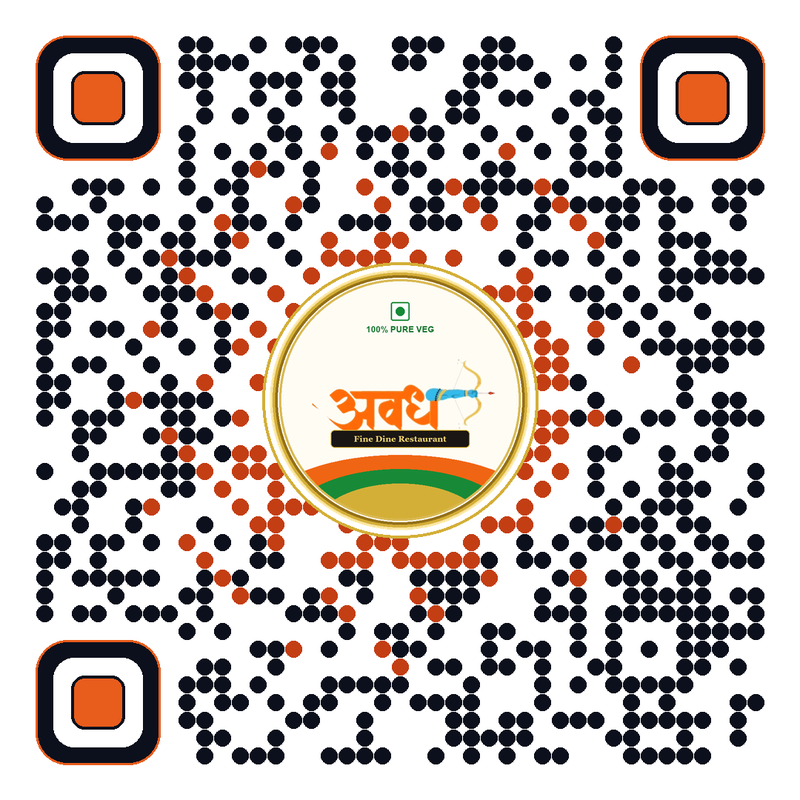
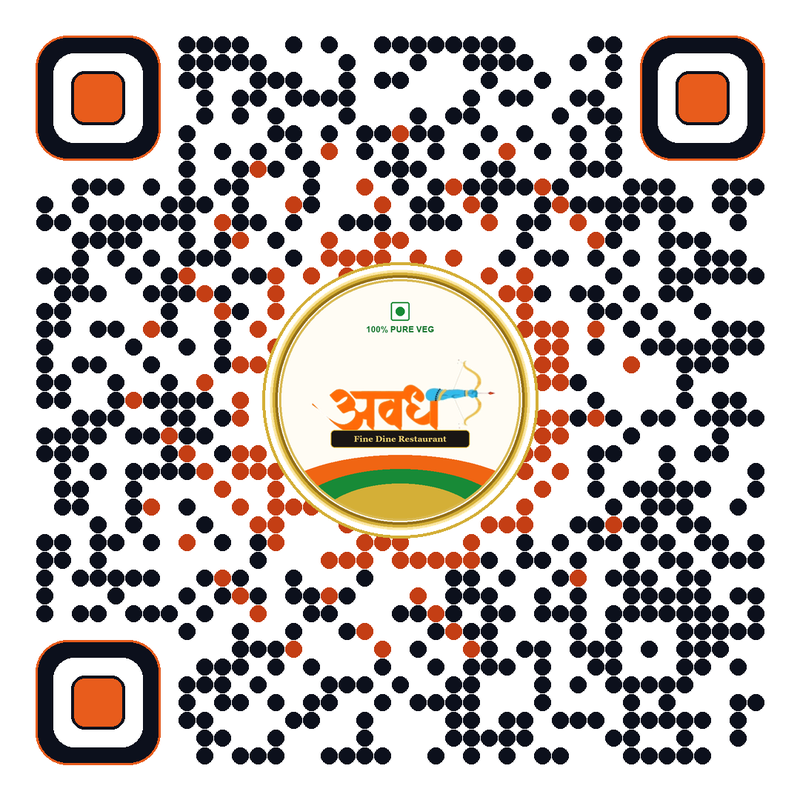
Configure GitHub Pages URL (Awadh-qr) & regenerate QR codes

diff --git a/config.js b/config.js
@@ -35,7 +35,7 @@ window.RESTAURANT_CONFIG = {
     instagramHandle: "@awadh_restaurant__",
 
     // 4. Hosted Landing Page URL (With ?v=1 to bypass mobile browser cache)
-    landingPageUrl: "https://hospitalityqr.github.io/AWADH-QR/?v=1",
+    landingPageUrl: "https://hospitalityqr.github.io/Awadh-qr/?v=1",
 
     // 5. Auto-Redirect Behavior
     autoRedirectToGoogle: false,

diff --git a/generate_qr.py b/generate_qr.py
@@ -772,7 +772,7 @@ def build_hub_standee(config, bg_img, output_filenames=["table_standee_printable
     draw_instagram_icon(draw, ix1 + 34, iy1 + pill_h // 2, size=24)
     draw.text((ix1 + 60, iy1 + 14), label_i, fill=(255, 255, 255), font=font_pill)
 
-    qr_url = config.get("landingPageUrl", "https://hospitalityqr.github.io/AWADH-QR/?v=1")
+    qr_url = config.get("landingPageUrl", "https://hospitalityqr.github.io/Awadh-qr/?v=1")
     card_size = 752
     qr_size = 674
     qr_img = generate_styled_qr(qr_url, target_size=qr_size)
@@ -1040,7 +1040,7 @@ def main():
     prepare_brand_assets()
 
     config = load_config("config.js")
-    landing_url = config.get("landingPageUrl", "https://hospitalityqr.github.io/AWADH-QR/?v=1")
+    landing_url = config.get("landingPageUrl", "https://hospitalityqr.github.io/Awadh-qr/?v=1")
     google_url = config.get("googleReviewUrl", "https://www.google.com/gasearch?q=awadh%20restaurant")
     insta_url = config.get("instagramUrl", "https://www.instagram.com/awadh_restaurant__?stkn=ODdiYTBwdDdna3Q1")
 
